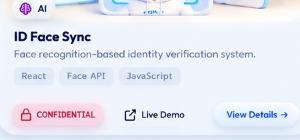
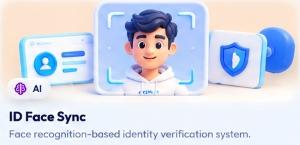
fix: navbar overlap, header layout, and project visual alignment to exactly match reference composition

diff --git a/components/sections/Projects.tsx b/components/sections/Projects.tsx
@@ -7,7 +7,7 @@ import { Timestamp } from 'firebase/firestore';
 import { getProjects, type Project } from '@/lib/firestore';
 import ProjectModal from '@/components/ui/ProjectModal';
 import { ProjectCardSkeleton } from '@/components/ui/LoadingSkeleton';
-import { ExternalLink, Lock, Layout, Star, GitFork, ArrowRight, Smartphone, Brain, Globe, BookOpen, UserCheck, Leaf, ShoppingCart, Car, Rocket } from 'lucide-react';
+import { ExternalLink, Lock, Layout, Star, ArrowRight, Smartphone, Brain, Globe, BookOpen } from 'lucide-react';
 import { GithubIcon } from '@/components/ui/BrandIcons';
 
 const categories = [
@@ -137,7 +137,7 @@ export default function Projects() {
                     <img 
                         src={imgSrc} 
                         alt={`${project.title} project preview`}
-                        className="w-full h-full object-cover transform group-hover:scale-[1.03] transition-transform duration-500 ease-out"
+                        className="w-full h-full object-cover object-top transform group-hover:scale-[1.03] transition-transform duration-500 ease-out"
                     />
                 ) : (
                     <div className="w-full h-full bg-slate-200 animate-pulse" />
@@ -147,31 +147,31 @@ export default function Projects() {
     };
 
     return (
-        <section id="projects" className="relative pt-[110px] pb-16 bg-[#EEF4FB] dark:bg-[#0f172a] overflow-hidden">
+        <section id="projects" className="relative pt-[160px] pb-16 bg-[#EEF4FB] dark:bg-[#0f172a] overflow-hidden">
             {/* Ambient Background Gradients */}
             <div className="absolute inset-0 pointer-events-none z-0">
-                <div className="absolute top-[10%] left-[5%] w-[400px] h-[400px] bg-blue-400/20 rounded-full blur-[100px]" />
-                <div className="absolute top-[20%] right-[10%] w-[400px] h-[400px] bg-purple-400/15 rounded-full blur-[100px]" />
+                <div className="absolute top-[5%] left-[5%] w-[400px] h-[400px] bg-blue-400/20 rounded-full blur-[100px]" />
+                <div className="absolute top-[10%] right-[10%] w-[400px] h-[400px] bg-purple-400/15 rounded-full blur-[100px]" />
                 <div className="absolute bottom-[20%] left-[30%] w-[500px] h-[500px] bg-cyan-400/15 rounded-full blur-[120px]" />
             </div>
 
             {/* Floating Decorations (z-index 0) */}
-            <div className="absolute top-40 right-20 w-16 h-16 bg-purple-300 dark:bg-purple-800 rounded-2xl rotate-12 blur-[1px] opacity-60 animate-bounce-slow" style={{ zIndex: 0 }} />
+            <div className="absolute top-60 right-20 w-16 h-16 bg-purple-300 dark:bg-purple-800 rounded-2xl rotate-12 blur-[1px] opacity-60 animate-bounce-slow" style={{ zIndex: 0 }} />
             <div className="absolute bottom-40 left-10 w-20 h-20 bg-blue-300 dark:bg-blue-800 rounded-full blur-[2px] opacity-50 animate-pulse-slow" style={{ zIndex: 0 }} />
             <div className="absolute top-1/2 right-10 w-12 h-12 bg-pink-300 dark:bg-pink-800 rounded-lg -rotate-12 blur-[1px] opacity-40 animate-float" style={{ zIndex: 0 }} />
 
             <div className="max-w-[1300px] mx-auto px-6 sm:px-8 lg:px-10 relative" style={{ zIndex: 2 }}>
                 
                 {/* SECTION HEADER AREA */}
-                <div className="flex flex-col lg:flex-row items-center lg:items-start justify-between mb-12 relative">
+                <div className="flex flex-col lg:flex-row items-center lg:items-center justify-between mb-10 relative gap-8">
                     
                     {/* LEFT COLUMN: Text & Filters */}
-                    <div className="flex flex-col items-center lg:items-start text-center lg:text-left flex-1 lg:max-w-xl z-10 lg:mt-6">
+                    <div className="flex flex-col items-center lg:items-start text-center lg:text-left flex-1 z-10">
                         <motion.div
                             initial={{ opacity: 0, y: 20 }}
                             whileInView={{ opacity: 1, y: 0 }}
                             viewport={{ once: true }}
-                            className="inline-flex items-center gap-2 px-4 py-1.5 bg-[#F8FAFC]/80 dark:bg-[#1a1f2c]/80 rounded-full shadow-[3px_4px_8px_rgba(148,163,184,0.2),-2px_-2px_5px_rgba(255,255,255,0.8)] dark:shadow-none text-[11px] font-bold text-text-secondary w-fit mb-4"
+                            className="inline-flex items-center gap-2 px-4 py-1.5 bg-[#F8FAFC]/90 dark:bg-[#1a1f2c]/90 rounded-full shadow-[3px_4px_8px_rgba(148,163,184,0.2),-2px_-2px_5px_rgba(255,255,255,0.8)] dark:shadow-none text-[11px] font-bold text-slate-500 mb-4"
                         >
                             🚀 My Work
                         </motion.div>
@@ -202,7 +202,7 @@ export default function Projects() {
                             whileInView={{ opacity: 1, y: 0 }}
                             viewport={{ once: true }}
                             transition={{ delay: 0.3 }}
-                            className="flex flex-wrap justify-center lg:justify-start gap-3 sm:gap-4 mb-8 lg:mb-0"
+                            className="flex flex-wrap justify-center lg:justify-start gap-3 sm:gap-4"
                         >
                             {categories.map((cat) => {
                                 const Icon = cat.icon;
@@ -214,7 +214,7 @@ export default function Projects() {
                                         className={`px-5 py-2.5 rounded-full font-bold text-xs flex items-center gap-2 transition-all duration-300 ${
                                             isActive
                                                 ? 'bg-gradient-to-r from-blue-500 to-purple-500 text-white shadow-lg scale-105'
-                                                : 'bg-[#EEF4FB] dark:bg-[#1a1f2c] text-slate-500 hover:text-slate-800 shadow-[4px_4px_8px_rgba(148,163,184,0.25),-4px_-4px_8px_rgba(255,255,255,0.85)] dark:shadow-none'
+                                                : 'bg-[rgba(255,255,255,0.8)] dark:bg-[#1a1f2c] text-slate-500 hover:text-slate-800 shadow-[4px_4px_8px_rgba(148,163,184,0.25),-4px_-4px_8px_rgba(255,255,255,0.85)] dark:shadow-none border border-white/50'
                                         }`}
                                     >
                                         <Icon className={`w-3.5 h-3.5 ${isActive ? 'text-white' : 'text-slate-400'}`} />
@@ -225,31 +225,29 @@ export default function Projects() {
                         </motion.div>
                     </div>
 
-                    {/* CENTER & RIGHT COLUMN: Avatar & Stats */}
-                    <div className="hidden lg:flex items-start justify-between flex-1 z-10 relative h-[280px]">
+                    {/* RIGHT COLUMN: Avatar & Stats */}
+                    <div className="hidden lg:flex items-center justify-end flex-1 z-10 gap-4 xl:gap-8">
                         {/* 3D AVATAR */}
-                        <div className="absolute left-[20%] -top-12 z-0 pointer-events-none">
-                            <motion.img 
-                                initial={{ opacity: 0, scale: 0.9 }}
-                                whileInView={{ opacity: 1, scale: 1 }}
-                                viewport={{ once: true }}
-                                transition={{ duration: 0.8 }}
-                                src="/hero-avatar-new.jpg" 
-                                alt="Developer" 
-                                className="w-[340px] object-contain dark:mix-blend-lighten mix-blend-darken"
-                                style={{ 
-                                    maskImage: 'radial-gradient(circle at center, black 60%, transparent 100%)',
-                                    WebkitMaskImage: 'radial-gradient(circle at center, black 60%, transparent 100%)',
-                                }}
-                            />
-                        </div>
+                        <motion.img 
+                            initial={{ opacity: 0, scale: 0.9 }}
+                            whileInView={{ opacity: 1, scale: 1 }}
+                            viewport={{ once: true }}
+                            transition={{ duration: 0.8 }}
+                            src="/hero-avatar-new.jpg" 
+                            alt="Developer" 
+                            className="w-[280px] xl:w-[340px] object-contain mix-blend-darken dark:mix-blend-lighten"
+                            style={{ 
+                                maskImage: 'radial-gradient(circle at center, black 65%, transparent 100%)',
+                                WebkitMaskImage: 'radial-gradient(circle at center, black 65%, transparent 100%)',
+                            }}
+                        />
 
                         {/* STATS */}
-                        <div className="flex flex-col gap-4 ml-auto w-[220px] z-20 pt-2">
+                        <div className="flex flex-col gap-3 shrink-0">
                             {[
-                                { title: 'Projects', value: '2+', icon: <Layout className="w-5 h-5 text-[#f59e0b]" />, bgClass: 'bg-[#fef3c7]' },
-                                { title: 'Certifications', value: '5+', icon: <BookOpen className="w-5 h-5 text-[#ef4444]" />, bgClass: 'bg-[#fee2e2]' },
-                                { title: 'Hackathons', value: '7+', icon: <Star className="w-5 h-5 text-[#3b82f6]" />, bgClass: 'bg-[#dbeafe]' },
+                                { title: 'Projects', value: '2+', icon: <Layout className="w-4 h-4 text-[#f59e0b]" />, bgClass: 'bg-[#fef3c7]' },
+                                { title: 'Certifications', value: '5+', icon: <BookOpen className="w-4 h-4 text-[#ef4444]" />, bgClass: 'bg-[#fee2e2]' },
+                                { title: 'Hackathons', value: '7+', icon: <Star className="w-4 h-4 text-[#3b82f6]" />, bgClass: 'bg-[#dbeafe]' },
                             ].map((stat, i) => (
                                 <motion.div
                                     key={stat.title}
@@ -257,13 +255,13 @@ export default function Projects() {
                                     whileInView={{ opacity: 1, x: 0 }}
                                     viewport={{ once: true }}
                                     transition={{ delay: 0.4 + i * 0.1 }}
-                                    className="bg-[rgba(255,255,255,0.6)] dark:bg-[rgba(30,36,52,0.6)] backdrop-blur-md rounded-2xl p-4 shadow-[6px_8px_16px_rgba(148,163,184,0.15),-4px_-4px_10px_rgba(255,255,255,0.7)] flex items-center gap-4 border border-white/40"
+                                    className="bg-[rgba(255,255,255,0.75)] dark:bg-[rgba(30,36,52,0.75)] backdrop-blur-md rounded-[20px] p-3 pr-6 shadow-[6px_8px_16px_rgba(148,163,184,0.15),-4px_-4px_10px_rgba(255,255,255,0.7)] flex items-center gap-3 border border-white/50"
                                 >
-                                    <div className={`w-12 h-12 rounded-[14px] flex items-center justify-center flex-shrink-0 shadow-sm ${stat.bgClass}`}>
+                                    <div className={`w-10 h-10 rounded-xl flex items-center justify-center flex-shrink-0 shadow-sm ${stat.bgClass}`}>
                                         {stat.icon}
                                     </div>
                                     <div>
-                                        <h3 className="text-xl font-extrabold text-slate-800 dark:text-white leading-tight">{stat.value}</h3>
+                                        <h3 className="text-lg font-extrabold text-slate-800 dark:text-white leading-tight">{stat.value}</h3>
                                         <p className="text-[9px] font-bold text-slate-500 uppercase tracking-wider">{stat.title}</p>
                                     </div>
                                 </motion.div>
@@ -276,7 +274,7 @@ export default function Projects() {
                 <motion.div
                     ref={ref}
                     layout
-                    className="grid grid-cols-1 md:grid-cols-2 xl:grid-cols-3 gap-7 sm:gap-8"
+                    className="grid grid-cols-1 md:grid-cols-2 xl:grid-cols-3 gap-6 sm:gap-7"
                 >
                     <AnimatePresence mode="popLayout">
                         {loading ? (
@@ -292,57 +290,50 @@ export default function Projects() {
                                     exit={{ opacity: 0, scale: 0.9, transition: { duration: 0.2 } }}
                                     transition={{ duration: 0.5, delay: i * 0.1, type: "spring", stiffness: 100 }}
                                     key={project.id}
-                                    className="group bg-[rgba(255,255,255,0.72)] dark:bg-[rgba(30,36,52,0.72)] backdrop-blur-md rounded-[28px] shadow-[12px_14px_28px_rgba(148,163,184,0.25),-8px_-8px_20px_rgba(255,255,255,0.85)] dark:shadow-[8px_8px_20px_rgba(0,0,0,0.3)] flex flex-col overflow-hidden transition-transform duration-300 hover:-translate-y-2 cursor-pointer"
-                                    style={{ boxShadow: 'inset 0 1px 0 rgba(255,255,255,0.8)' }}
+                                    className="group bg-[rgba(255,255,255,0.85)] dark:bg-[rgba(30,36,52,0.85)] backdrop-blur-md rounded-[32px] shadow-[10px_12px_25px_rgba(148,163,184,0.20),-7px_-7px_18px_rgba(255,255,255,0.85)] dark:shadow-[8px_8px_20px_rgba(0,0,0,0.3)] flex flex-col overflow-hidden transition-transform duration-300 hover:-translate-y-1.5 cursor-pointer"
+                                    style={{ boxShadow: '10px 12px 25px rgba(148,163,184,0.20), -7px -7px 18px rgba(255,255,255,0.85), inset 0 1px 0 rgba(255,255,255,0.75)' }}
                                     onClick={() => setSelectedProject(project)}
                                 >
                                     {/* VISUAL AREA */}
-                                    <div className="w-full h-[210px] relative overflow-hidden">
+                                    <div className="w-full h-[240px] relative overflow-hidden bg-slate-50">
                                         {getProjectVisual(project)}
                                         
-                                        {/* Badges on top of visual */}
-                                        <div className="absolute top-4 left-4 flex gap-2">
-                                            {project.badge && (
-                                                <div className="px-3 py-1.5 rounded-full text-[10px] font-bold bg-[#F8FAFC] dark:bg-[#1a1f2c] text-accent-yellow shadow-[3px_4px_8px_rgba(148,163,184,0.2),-2px_-2px_5px_rgba(255,255,255,0.8)] dark:shadow-none flex items-center gap-1">
-                                                    ⭐ {project.badge}
-                                                </div>
-                                            )}
-                                        </div>
-                                        <div className="absolute bottom-4 left-4">
-                                            <div className="px-3 py-1.5 rounded-full text-[10px] font-bold bg-white/90 dark:bg-[#1a1f2c]/90 text-accent-blue shadow-sm flex items-center gap-1 backdrop-blur-sm">
+                                        {/* Category Badge on bottom left */}
+                                        <div className="absolute bottom-4 left-4 z-10">
+                                            <div className="px-3 py-1.5 rounded-full text-[10px] font-bold bg-white/95 dark:bg-[#1a1f2c]/95 text-accent-blue shadow-[3px_4px_8px_rgba(148,163,184,0.2),-2px_-2px_5px_rgba(255,255,255,0.8)] flex items-center gap-1 backdrop-blur-sm border border-white/50">
                                                 <Globe className="w-3 h-3" /> {project.category}
                                             </div>
                                         </div>
                                     </div>
 
                                     {/* CONTENT AREA */}
-                                    <div className="p-6 flex flex-col flex-grow">
-                                        <h3 className="text-[#0f172a] dark:text-white font-bold text-lg sm:text-xl mb-2 leading-tight">
+                                    <div className="p-5 sm:p-6 flex flex-col flex-grow">
+                                        <h3 className="text-[#0f172a] dark:text-white font-bold text-lg mb-2 leading-tight">
                                             {project.title}
                                         </h3>
-                                        <p className="text-text-secondary text-sm leading-relaxed line-clamp-2 mb-5 font-medium">
+                                        <p className="text-slate-500 text-sm leading-relaxed line-clamp-2 mb-4 font-medium">
                                             {project.description}
                                         </p>
 
                                         {/* Tech Chips */}
-                                        <div className="flex flex-wrap gap-2 mb-6">
+                                        <div className="flex flex-wrap gap-2 mb-0">
                                             {project.techStack.slice(0, 3).map((tech) => (
                                                 <span
                                                     key={tech}
-                                                    className="px-3 py-1 rounded-full text-[11px] font-bold bg-[#EEF4FB] dark:bg-[#1e2434] text-text-secondary shadow-[inset_1px_1px_3px_rgba(148,163,184,0.2)] dark:shadow-none"
+                                                    className="px-3 py-1 rounded-full text-[11px] font-bold bg-[rgba(255,255,255,0.6)] dark:bg-[#1e2434] text-slate-600 shadow-[inset_1px_1px_3px_rgba(148,163,184,0.2),2px_2px_5px_rgba(148,163,184,0.1)] dark:shadow-none border border-white/40"
                                                 >
                                                     {tech}
                                                 </span>
                                             ))}
                                             {project.techStack.length > 3 && (
-                                                <span className="px-3 py-1 rounded-full text-[11px] font-bold bg-[#EEF4FB] dark:bg-[#1e2434] text-text-muted shadow-[inset_1px_1px_3px_rgba(148,163,184,0.2)] dark:shadow-none">
+                                                <span className="px-3 py-1 rounded-full text-[11px] font-bold bg-[rgba(255,255,255,0.6)] dark:bg-[#1e2434] text-slate-500 shadow-[inset_1px_1px_3px_rgba(148,163,184,0.2),2px_2px_5px_rgba(148,163,184,0.1)] dark:shadow-none border border-white/40">
                                                     +{project.techStack.length - 3}
                                                 </span>
                                             )}
                                         </div>
 
                                         {/* ACTION ROW */}
-                                        <div className="flex items-center gap-4 mt-auto pt-4">
+                                        <div className="flex items-center gap-4 mt-auto pt-5">
                                             {project.isConfidential ? (
                                                 <span className="text-xs text-accent-pink flex items-center gap-1.5 font-bold uppercase px-3 py-1.5 rounded-full bg-[#fce7f3] dark:bg-[#be185d]">
                                                     <Lock className="w-3.5 h-3.5" />
@@ -355,7 +346,7 @@ export default function Projects() {
                                                         target="_blank"
                                                         rel="noopener noreferrer"
                                                         onClick={(e) => e.stopPropagation()}
-                                                        className="text-xs font-bold text-text-secondary hover:text-[#0f172a] dark:hover:text-white transition-colors flex items-center gap-1.5"
+                                                        className="text-xs font-bold text-slate-500 hover:text-slate-800 transition-colors flex items-center gap-1.5"
                                                     >
                                                         <GithubIcon className="w-4 h-4" />
                                                         GitHub
@@ -369,15 +360,15 @@ export default function Projects() {
                                                     target="_blank"
                                                     rel="noopener noreferrer"
                                                     onClick={(e) => e.stopPropagation()}
-                                                    className="text-xs font-bold text-text-secondary hover:text-[#0f172a] dark:hover:text-white transition-colors flex items-center gap-1.5"
+                                                    className="text-xs font-bold text-slate-500 hover:text-slate-800 transition-colors flex items-center gap-1.5"
                                                 >
-                                                    <ExternalLink className="w-4 h-4" />
+                                                    <ExternalLink className="w-3.5 h-3.5" />
                                                     Live Demo
                                                 </a>
                                             )}
 
-                                            <span className="ml-auto text-xs font-bold text-accent-blue group-hover:text-blue-700 transition-colors flex items-center gap-1">
-                                                View Details <ArrowRight className="w-4 h-4" />
+                                            <span className="ml-auto text-xs font-bold text-blue-600 group-hover:text-blue-700 transition-colors flex items-center gap-1">
+                                                View Details <ArrowRight className="w-3.5 h-3.5" />
                                             </span>
                                         </div>
                                     </div>
